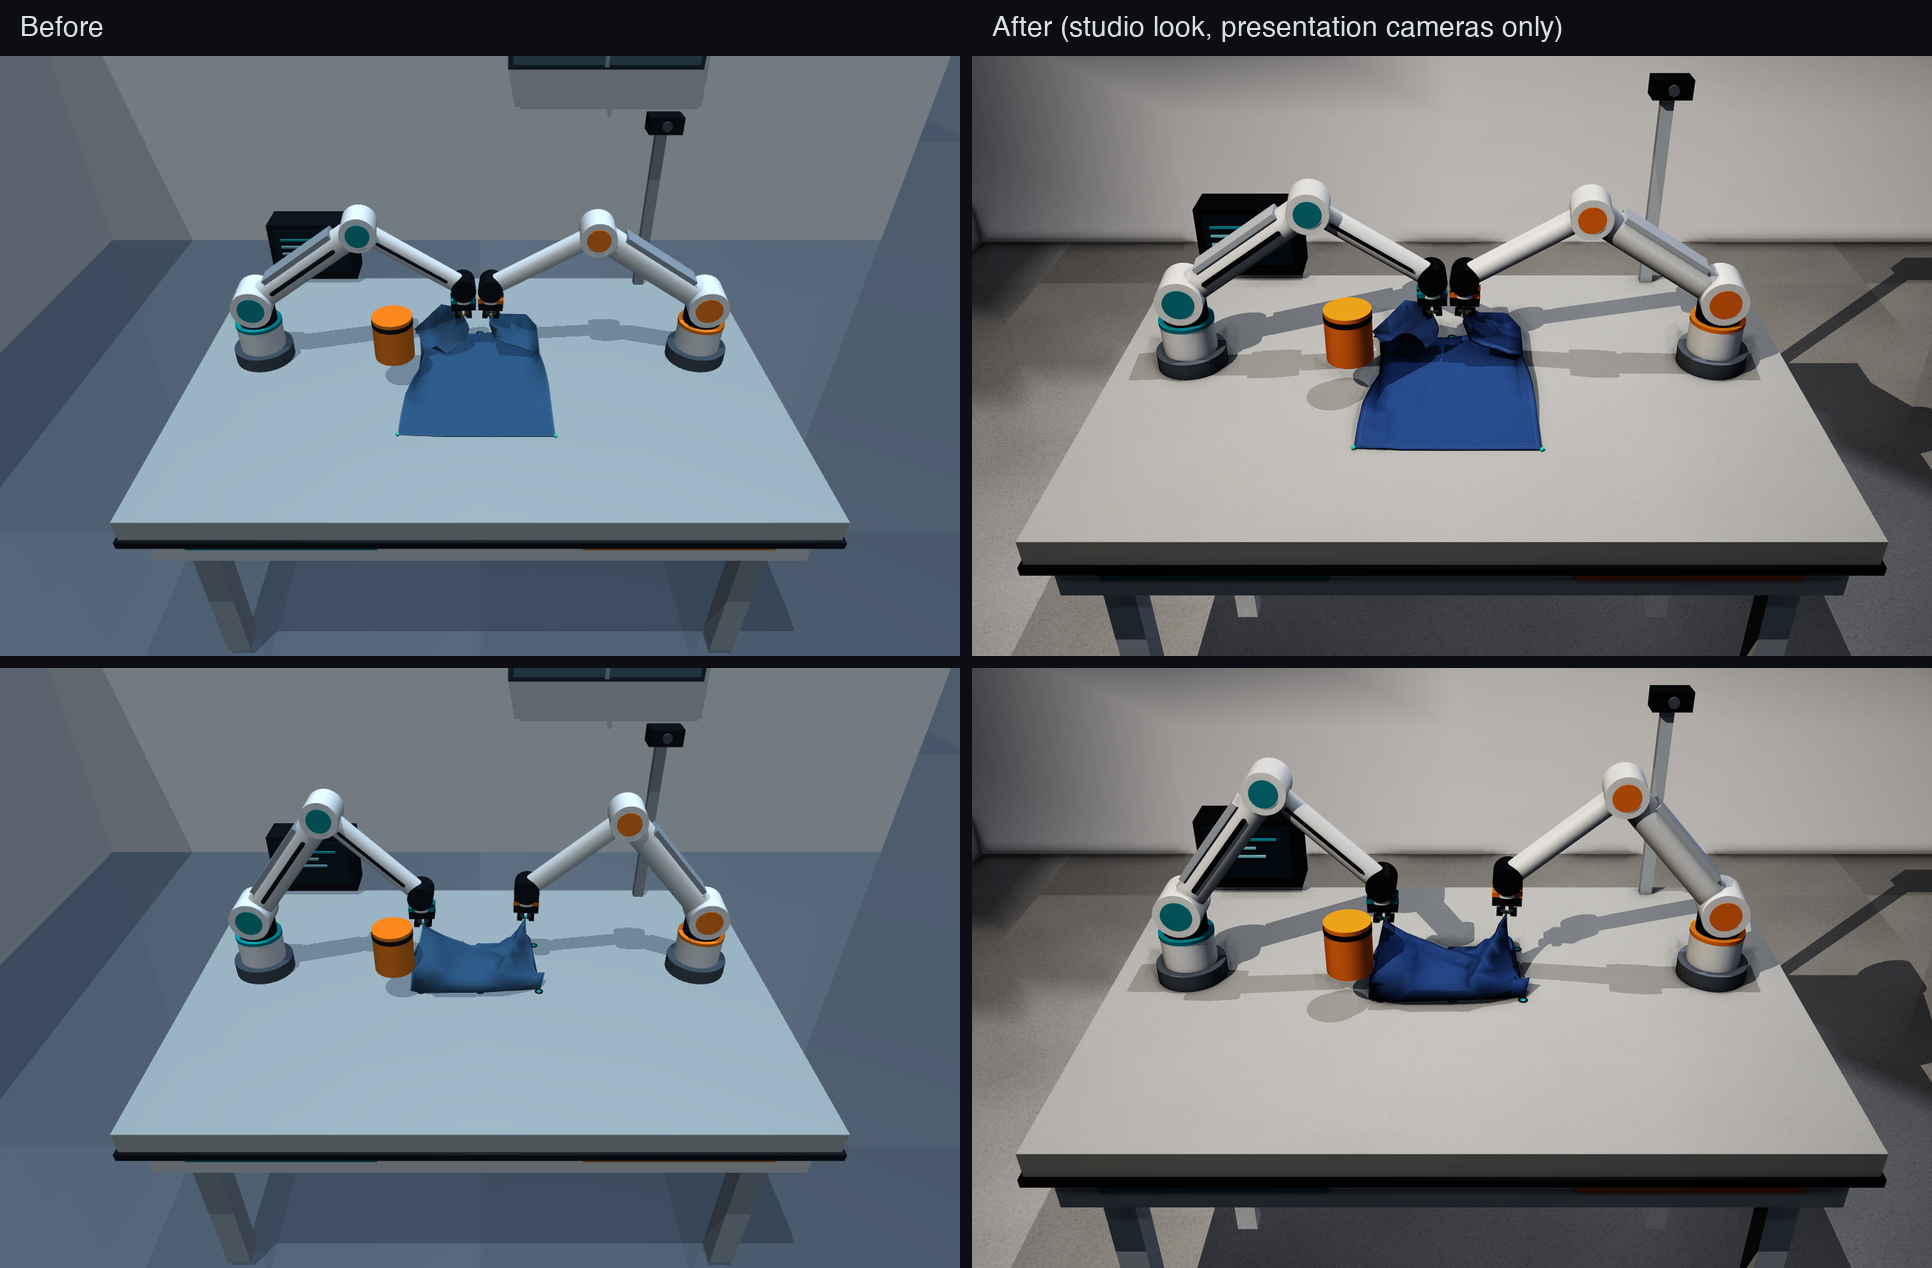
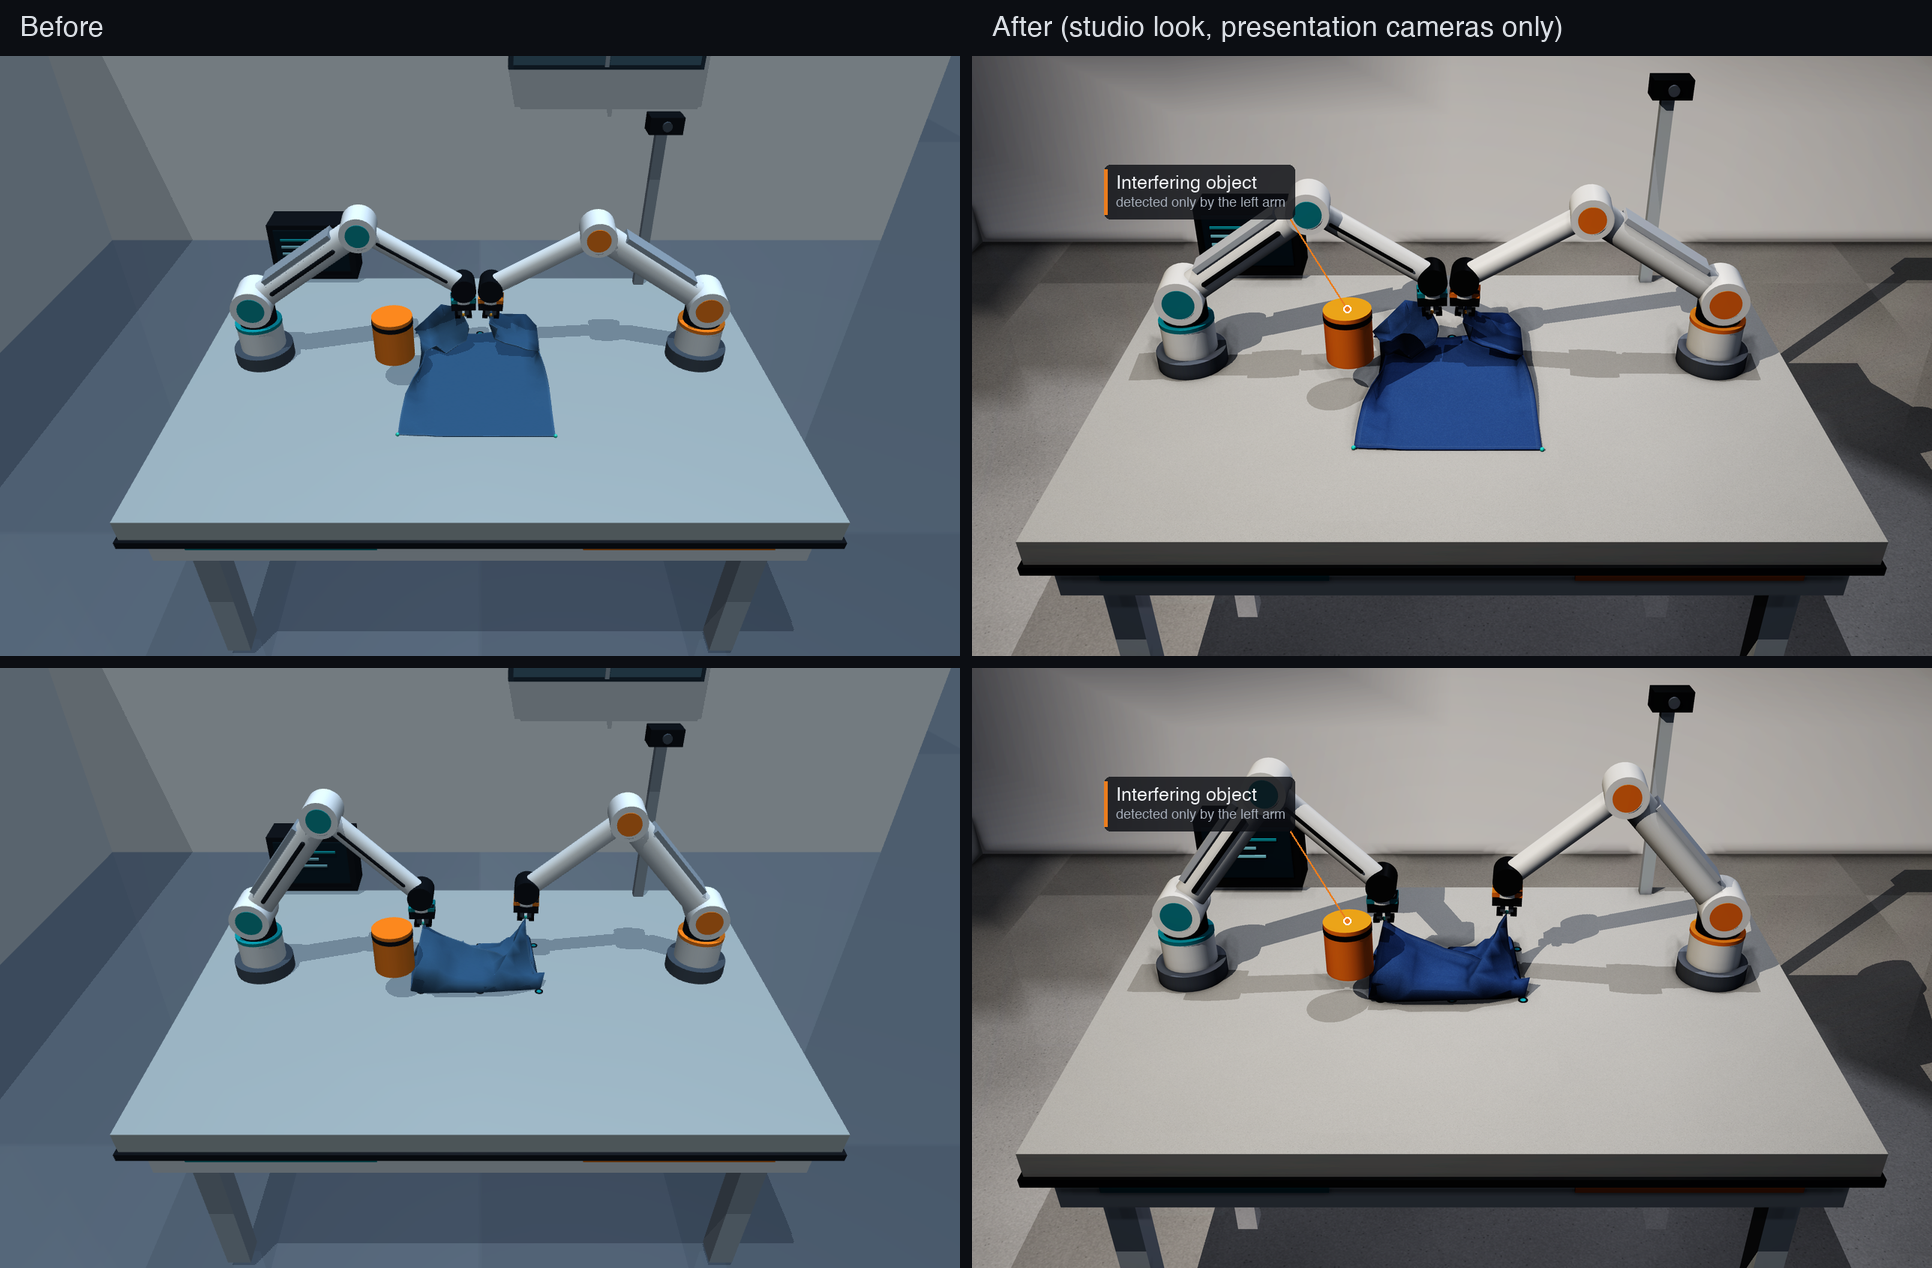
Label the interfering object in presentation renders
While the scheduled obstacle is active, the overview and top cameras draw a
callout projected from its 3D position: "Interfering object" and which arm
detects it, fading in as it slides onto the table. Arm cameras are untouched
(tested); render(..., annotate=False) gives unlabelled frames.

Changed region(s): [[0.559, 0.5844, 0.6832, 0.6767], [0.559, 0.123, 0.6832, 0.1845]]

diff --git a/src/relay_lab/cloth/presentation.py b/src/relay_lab/cloth/presentation.py
@@ -16,7 +16,7 @@ from io import BytesIO
 
 import mujoco
 import numpy as np
-from PIL import Image, ImageDraw
+from PIL import Image, ImageDraw, ImageFont
 
 from .scene import shirt_mesh
 
@@ -341,3 +341,81 @@ def grade(rgb, depth, output_size, *, exposure=1.3):
     mapped *= (1 - 0.22 * radius**2.4)[..., None]
     srgb = (np.clip(_to_srgb(np.clip(mapped, 0, 1)), 0, 1) * 255 + 0.5).astype(np.uint8)
     return np.asarray(Image.fromarray(srgb).resize(output_size, Image.LANCZOS))
+
+
+# ------------------------------------------------------------- annotation --
+_FONT_CANDIDATES = (
+    "/System/Library/Fonts/Helvetica.ttc",
+    "/System/Library/Fonts/Supplemental/Arial.ttf",
+    "DejaVuSans.ttf",
+)
+
+
+@lru_cache(maxsize=16)
+def _font(size):
+    for path in _FONT_CANDIDATES:
+        try:
+            return ImageFont.truetype(path, size)
+        except OSError:
+            continue
+    return ImageFont.load_default(size=size)
+
+
+def project(point, camera_position, camera_matrix, fovy_degrees, width, height):
+    """Pixel coordinates of a world point for a MuJoCo camera, or None if behind it.
+
+    MuJoCo cameras look along their local -z axis with +y up.
+    """
+    local = np.asarray(camera_matrix).reshape(3, 3).T @ (np.asarray(point) - camera_position)
+    if local[2] >= -1e-6:
+        return None
+    focal = (height / 2) / np.tan(np.radians(fovy_degrees) / 2)
+    return (width / 2 + focal * local[0] / -local[2], height / 2 - focal * local[1] / -local[2])
+
+
+def annotate(image, anchor, title, subtitle, *, side=1, opacity=1.0, accent=(235, 125, 30)):
+    """Draw a callout: a dot on the anchor, a leader line, and a two-line label.
+
+    ``side`` (+1 or -1) places the label to the right or left of the anchor.
+    """
+    if anchor is None or opacity <= 0:
+        return image
+    h, w = image.shape[:2]
+    ax, ay = anchor
+    if not (0 <= ax < w and 0 <= ay < h):
+        return image
+    unit = h / 800
+    title_font, sub_font = _font(max(10, round(25 * unit))), _font(max(9, round(18 * unit)))
+    base = Image.fromarray(image).convert("RGBA")
+    layer = Image.new("RGBA", base.size, (0, 0, 0, 0))
+    draw = ImageDraw.Draw(layer)
+    pad, gap, bar = 12 * unit, 5 * unit, 4 * unit
+    tw = max(draw.textlength(title, font=title_font), draw.textlength(subtitle, font=sub_font))
+    th = title_font.size + gap + sub_font.size
+    box_w, box_h = tw + 2 * pad + bar, th + 2 * pad
+    bx = ax + side * 70 * unit - (box_w if side < 0 else 0)
+    by = ay - 120 * unit - box_h
+    bx = float(np.clip(bx, 10 * unit, w - box_w - 10 * unit))
+    by = float(np.clip(by, 10 * unit, h - box_h - 10 * unit))
+    alpha = round(255 * float(opacity))
+    corner = (bx + (box_w - 6 * unit if side < 0 else 6 * unit), by + box_h)
+    draw.line([anchor, corner], fill=(*accent, alpha), width=max(2, round(2 * unit)))
+    r = 5 * unit
+    draw.ellipse(
+        [ax - r, ay - r, ax + r, ay + r],
+        fill=(*accent, alpha),
+        outline=(255, 255, 255, alpha),
+        width=max(1, round(1.5 * unit)),
+    )
+    draw.rounded_rectangle(
+        [bx, by, bx + box_w, by + box_h], radius=8 * unit, fill=(12, 14, 19, int(205 * opacity))
+    )
+    draw.rectangle([bx, by + 6 * unit, bx + bar, by + box_h - 6 * unit], fill=(*accent, alpha))
+    draw.text((bx + bar + pad, by + pad), title, font=title_font, fill=(240, 242, 245, alpha))
+    draw.text(
+        (bx + bar + pad, by + pad + title_font.size + gap),
+        subtitle,
+        font=sub_font,
+        fill=(170, 178, 190, alpha),
+    )
+    return np.asarray(Image.alpha_composite(base, layer).convert("RGB"))

diff --git a/src/relay_lab/cloth/world.py b/src/relay_lab/cloth/world.py
@@ -512,13 +512,16 @@ class ClothWorld:
             "metrics": self.metrics(),
         }
 
-    def render(self, camera: str = "overview", width: int = 960, height: int = 720):
+    def render(
+        self, camera: str = "overview", width: int = 960, height: int = 720, *, annotate=True
+    ):
         """Render a camera. Arm cameras are the unmodified policy observation path;
-        presentation cameras use the studio look in ``presentation.py``."""
+        presentation cameras use the studio look in ``presentation.py`` and, when
+        ``annotate`` is true, label the interfering object while it is present."""
         if self._closed:
             raise RuntimeError("world is closed")
         if camera in presentation.PRESENTATION_CAMERAS:
-            return self._render_studio(camera, width, height)
+            return self._render_studio(camera, width, height, annotate)
         key = width, height
         if key not in self._renderers:
             self._renderers[key] = mujoco.Renderer(self.model, height=height, width=width)
@@ -526,7 +529,7 @@ class ClothWorld:
         renderer.update_scene(self.data, camera=camera)
         return renderer.render().copy()
 
-    def _render_studio(self, camera, width, height):
+    def _render_studio(self, camera, width, height, annotate=True):
         scale = max(
             1,
             min(
@@ -552,7 +555,30 @@ class ClothWorld:
                 depth = renderer.render().copy()
             finally:
                 renderer.disable_depth_rendering()
-        return presentation.grade(rgb, depth, (width, height))
+        image = presentation.grade(rgb, depth, (width, height))
+        if annotate and self._obstacle_active:
+            image = self._label_obstacle(image, camera)
+        return image
+
+    def _label_obstacle(self, image, camera):
+        h, w = image.shape[:2]
+        cam = self.model.camera(camera).id
+        position = self.data.mocap_pos[self._obstacle_mocap]
+        top = position + [0, 0, 0.075]  # cylinder half-height
+        anchor = presentation.project(
+            top, self.data.cam_xpos[cam], self.data.cam_xmat[cam], self.model.cam_fovy[cam], w, h
+        )
+        # Fade in while the object slides from the table edge to its stop.
+        opacity = float(np.clip((0.67 - abs(position[0])) / 0.13, 0, 1))
+        side = self._obstacle_side
+        return presentation.annotate(
+            image,
+            anchor,
+            "Interfering object",
+            f"detected only by the {side} arm",
+            side=-1 if side == "left" else 1,
+            opacity=opacity,
+        )
 
     def close(self):
         for renderer in self._renderers.values():

diff --git a/tests/test_cloth_presentation.py b/tests/test_cloth_presentation.py
@@ -42,3 +42,24 @@ def test_occlusion_ignores_planes_and_silhouettes():
     assert presentation.ambient_occlusion(step, 1).max() < 1e-4
     valley = 1.6 - 0.004 * np.abs(xx - 32)  # deepest at the centre column
     assert presentation.ambient_occlusion(valley.astype(np.float32), 1)[:, 32].mean() > 0.05
+
+
+def test_project_matches_camera_convention():
+    # Camera at the origin looking down -z with +y up: the axis maps to the centre.
+    eye, rotation = np.zeros(3), np.eye(3)
+    assert presentation.project([0, 0, -2], eye, rotation, 45, 200, 100) == (100, 50)
+    x, y = presentation.project([0.1, 0.1, -2], eye, rotation, 45, 200, 100)
+    assert x > 100 and y < 50
+    assert presentation.project([0, 0, 1], eye, rotation, 45, 200, 100) is None
+
+
+def test_interfering_object_label_is_presentation_only():
+    with ClothWorld(seed=4, obstacle_schedule=((0, 100, "left"),)) as w:
+        for _ in range(30):
+            w.step({})
+        arm = {a: w.render(a, 128, 128) for a in AGENTS}
+        labelled = w.render("overview", 320, 200)
+        plain = w.render("overview", 320, 200, annotate=False)
+        assert not np.array_equal(labelled, plain)
+        for a in AGENTS:
+            assert np.array_equal(w.render(a, 128, 128), arm[a])

diff --git a/docs/cloth-coordination.md b/docs/cloth-coordination.md
@@ -33,7 +33,9 @@ This remains a simulation approximation:
 The evaluator cameras (`overview`, `top`) use a presentation-only studio look
 from `relay_lab/cloth/presentation.py`: soft-shadowed studio lights, jersey,
 concrete and laminate textures, 2× supersampling, depth-based crease occlusion
-and filmic tone mapping. These overrides are applied only while rendering those
+and filmic tone mapping. While the scheduled obstacle is present, those views
+label it "Interfering object" and name the one arm that detects it (pass
+`annotate=False` to `render` for clean frames). These overrides are applied only while rendering those
 cameras and are restored afterwards. The arm cameras that feed policies and
 cached VLA features render exactly as before, and physics is unchanged; the
 tests check that the model state and arm pixels are untouched after a
